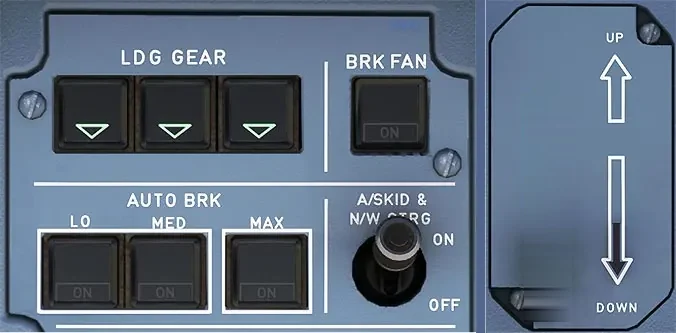
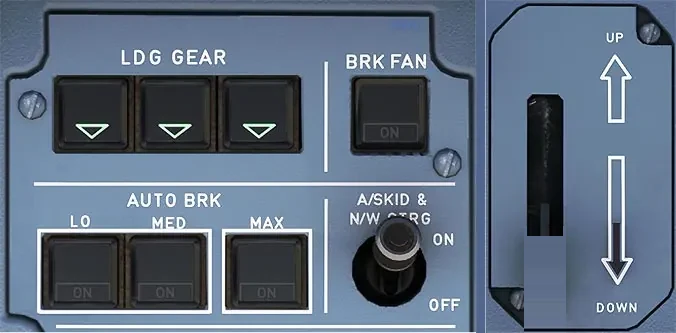
Gear lever: only the grip moves over the fixed track; flaps buttons level with the gate marks
Claude-Session: https://claude.ai/code/session_01HhPZEK7C6Wo3chgfNqRpSP

Changed region(s): [[0.7766, 0.2703, 0.8388, 1.0]]

diff --git a/js/levers.js b/js/levers.js
@@ -33,7 +33,7 @@ function leversSvg(){const G='#3cff3c',B='#3ad7ff',R='#ff3b30',ln='#e8eef5';
     s+=hit(356,80,80,76,'fan','x');
     if(!LV.askid)s+=`<circle cx="395" cy="258" r="24" fill="#1a1d22"/><rect x="389" y="258" width="12" height="38" rx="5" fill="#2c3036" stroke="#555"/>`;
     s+=hit(350,216,70,92,'askid','x');
-    const up=LV.gear==='UP';s+=`<image href="${IMG_LVGL}" x="524" y="${up?17:92}" width="48" height="230"/>`+hit(490,0,186,333,'gear',up?'DOWN':'UP');
+    const up=LV.gear==='UP';s+=`<image href="${IMG_LVGL}" x="524" y="${up?40:226}" width="42" height="107"/>`   /* only the knurled grip moves; the track stays */+hit(490,0,186,333,'gear',up?'DOWN':'UP');
     s+=`</g>`;
     s+=btn(282,162,156,34,'gear','UP','GEAR UP',up)+btn(444,162,156,34,'gear','DOWN','GEAR DOWN',!up);
     s+=t(441,216,dn?'DOWN LOCKED':gp<=0?'UP LOCKED':'IN TRANSIT',12,dn?G:gp<=0?ln:R)}
@@ -41,8 +41,9 @@ function leversSvg(){const G='#3cff3c',B='#3ad7ff',R='#ff3b30',ln='#e8eef5';
   {const k=246/302,x0=300;s+=`<g transform="translate(${x0},230) scale(${k})"><image href="${IMG_LVF}" x="0" y="0" width="240" height="302"/>`;
     const y=FLP_Y[LV.flaps]-20;s+=`<image href="${IMG_LVFK}" x="${128-70}" y="${y-53}" width="140" height="107"/>`;
     FLP_Y.forEach((yy,i)=>{s+=hit(0,yy-20-28,240,56,'flaps',i)});s+=`</g>`;
-    const cf=flying()?FL.conf:['0','1+F','2','3','FULL'][LV.flaps];s+=t(596,258,'FLAPS',14,ln,'end')+t(596,280,cf==='0'?'CLEAN':cf,14,'#ffd9a0','end')}
-  ['0','1','2','3','FULL'].forEach((l,i)=>{s+=btn(520,300+i*45,76,38,'flaps',i,l,LV.flaps===i,null,13)});
+    const cf=flying()?FL.conf:['0','1+F','2','3','FULL'][LV.flaps];s+=t(522,240,'FLAPS',13,ln,'start')+t(596,240,cf==='0'?'CLEAN':cf,13,'#ffd9a0','end')}
+  /* buttons level with the gate marks (image y = mark - 20, scale 246/302, from y 230) */
+  ['0','1','2','3','FULL'].forEach((l,i)=>{const cy=230+(FLP_Y[i]-20)*246/302;s+=btn(522,cy-16,74,32,'flaps',i,l,LV.flaps===i,null,13)});
   return s}
 function drawLevers(){const o=$('#lvPanel');if(!o)return;o.hidden=!LVP.on;const b=$('#lvBtn');if(b){b.setAttribute('aria-pressed',String(LVP.on));b.textContent=LVP.on?'SD':'LEVERS'}
   if(!LVP.on)return;const h=leversSvg();if(o._h!==h){o.innerHTML=`<svg viewBox="0 0 600 530" preserveAspectRatio="xMidYMid meet" xmlns="http://www.w3.org/2000/svg" aria-label="Levers">${h}</svg>`;o._h=h}}

diff --git a/index.html b/index.html
@@ -145,7 +145,7 @@
 <script src="js/setup.js?v=bcc55ea4"></script>
 <script src="js/pfd.js?v=6f6c1c15"></script>
 <script src="js/ecam.js?v=1845e501"></script>
-<script src="js/levers.js?v=71eb28f0"></script>
+<script src="js/levers.js?v=34d03fbf"></script>
 <script src="js/sdpages.js?v=fe8668eb"></script>
 <script src="js/cockpit3d.js?v=1ee46420"></script>
 <script src="js/app.js?v=9ebd617e"></script>
